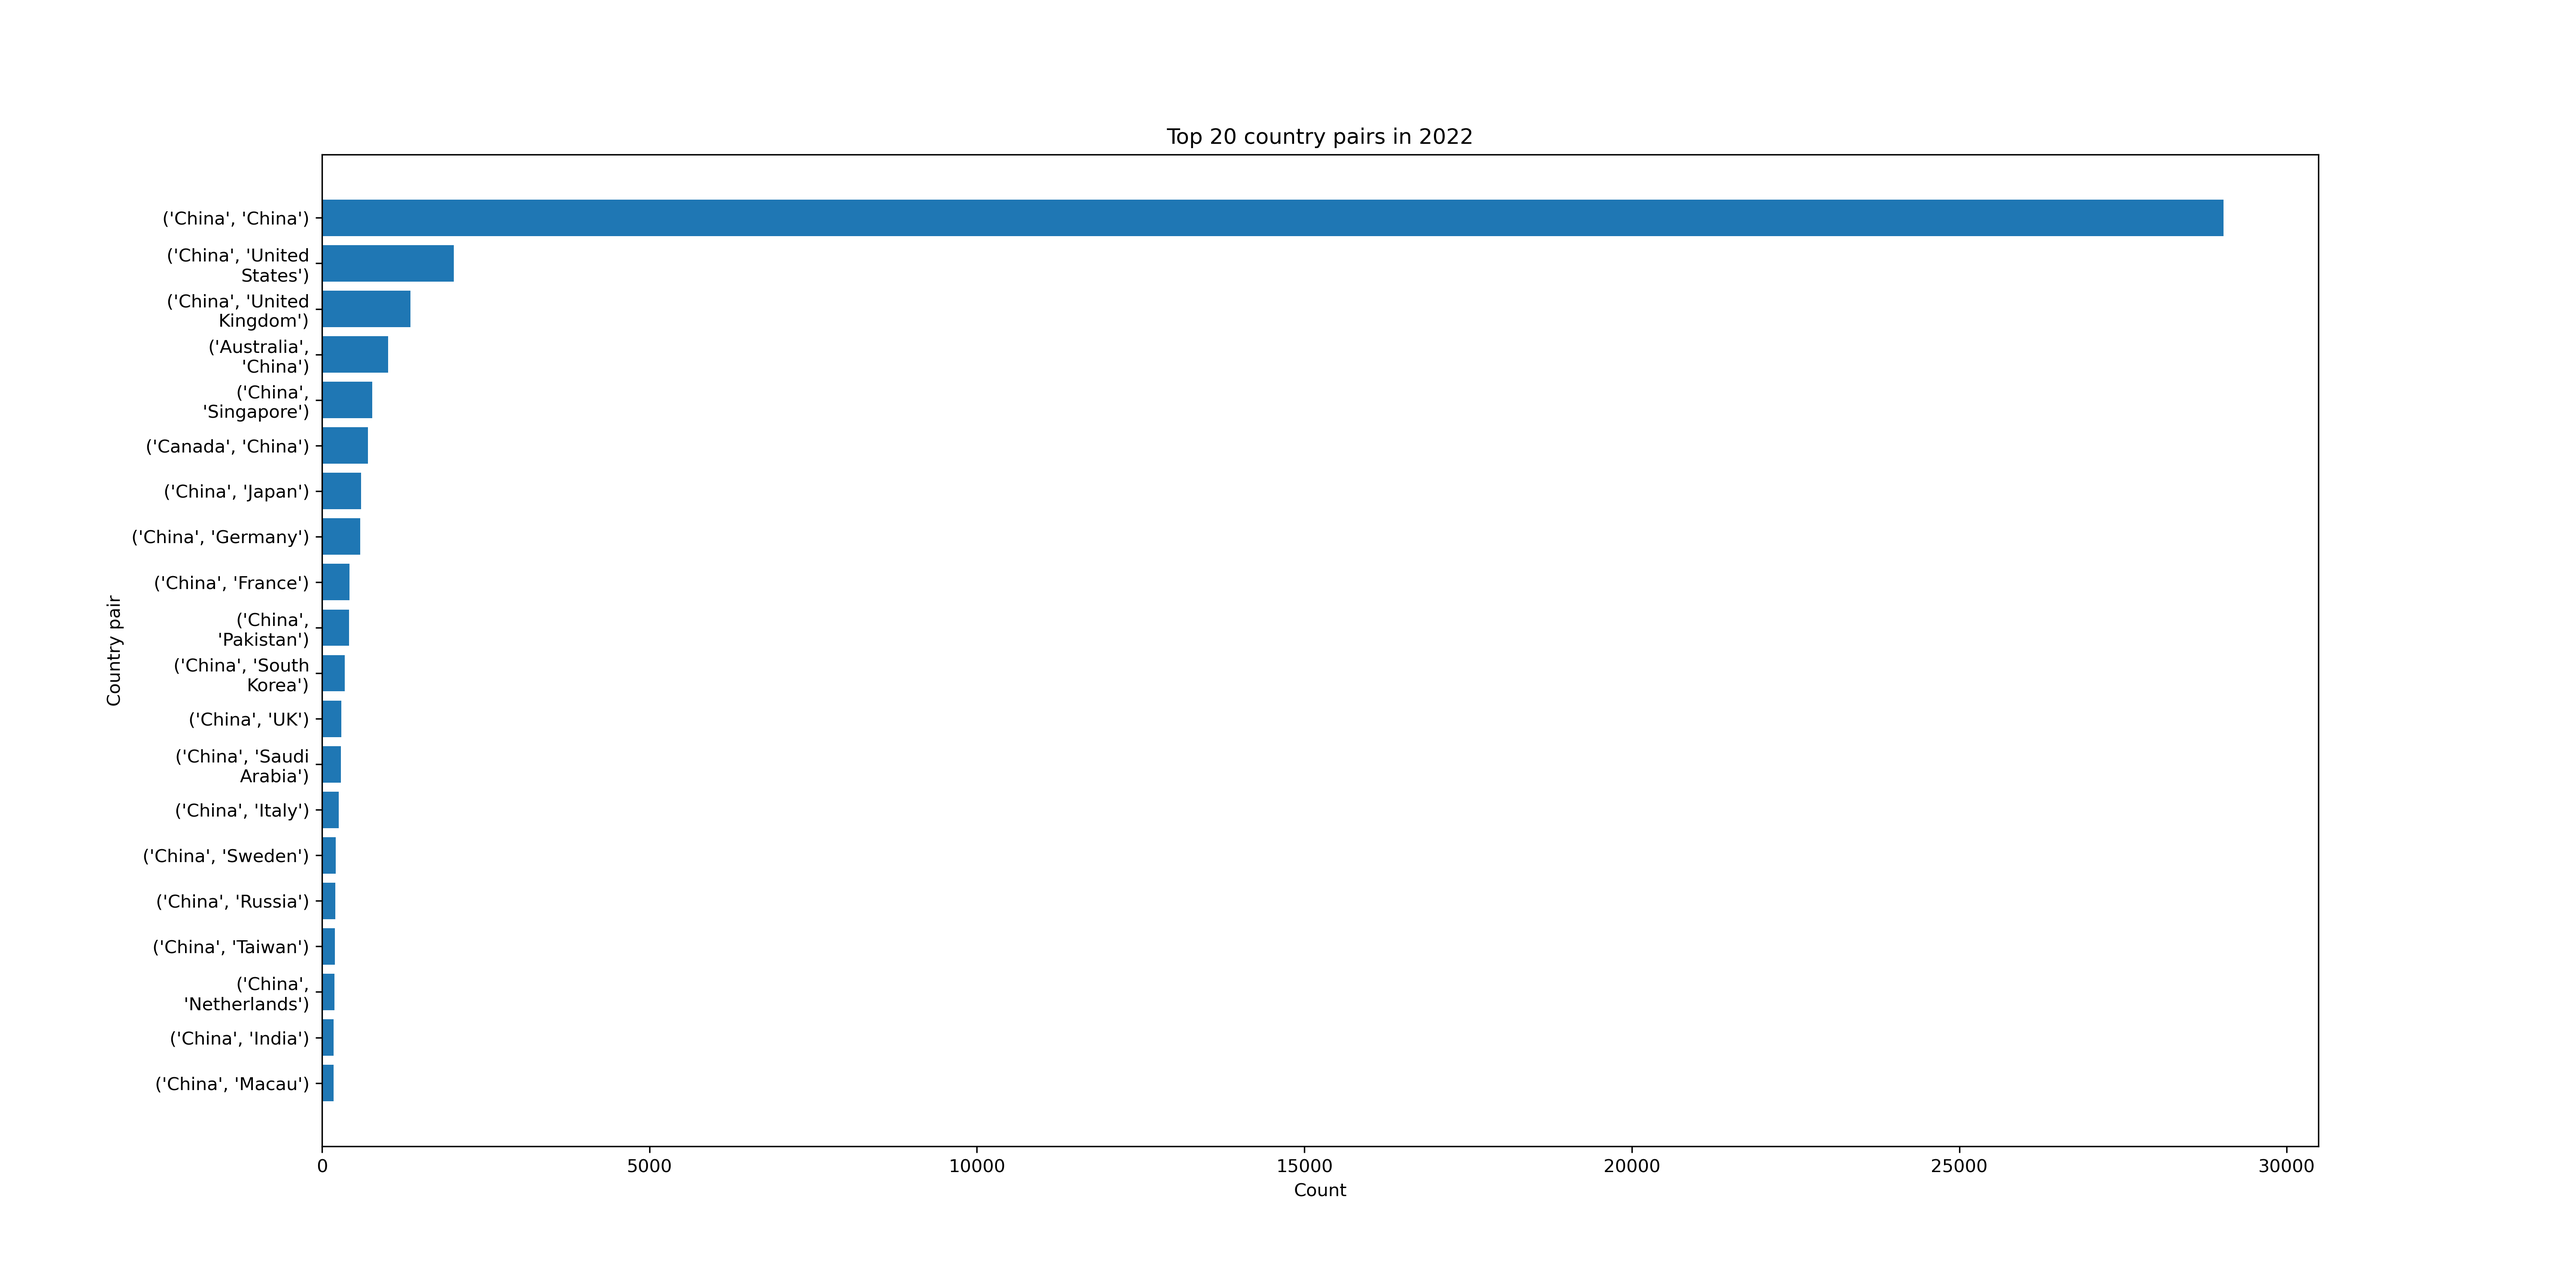
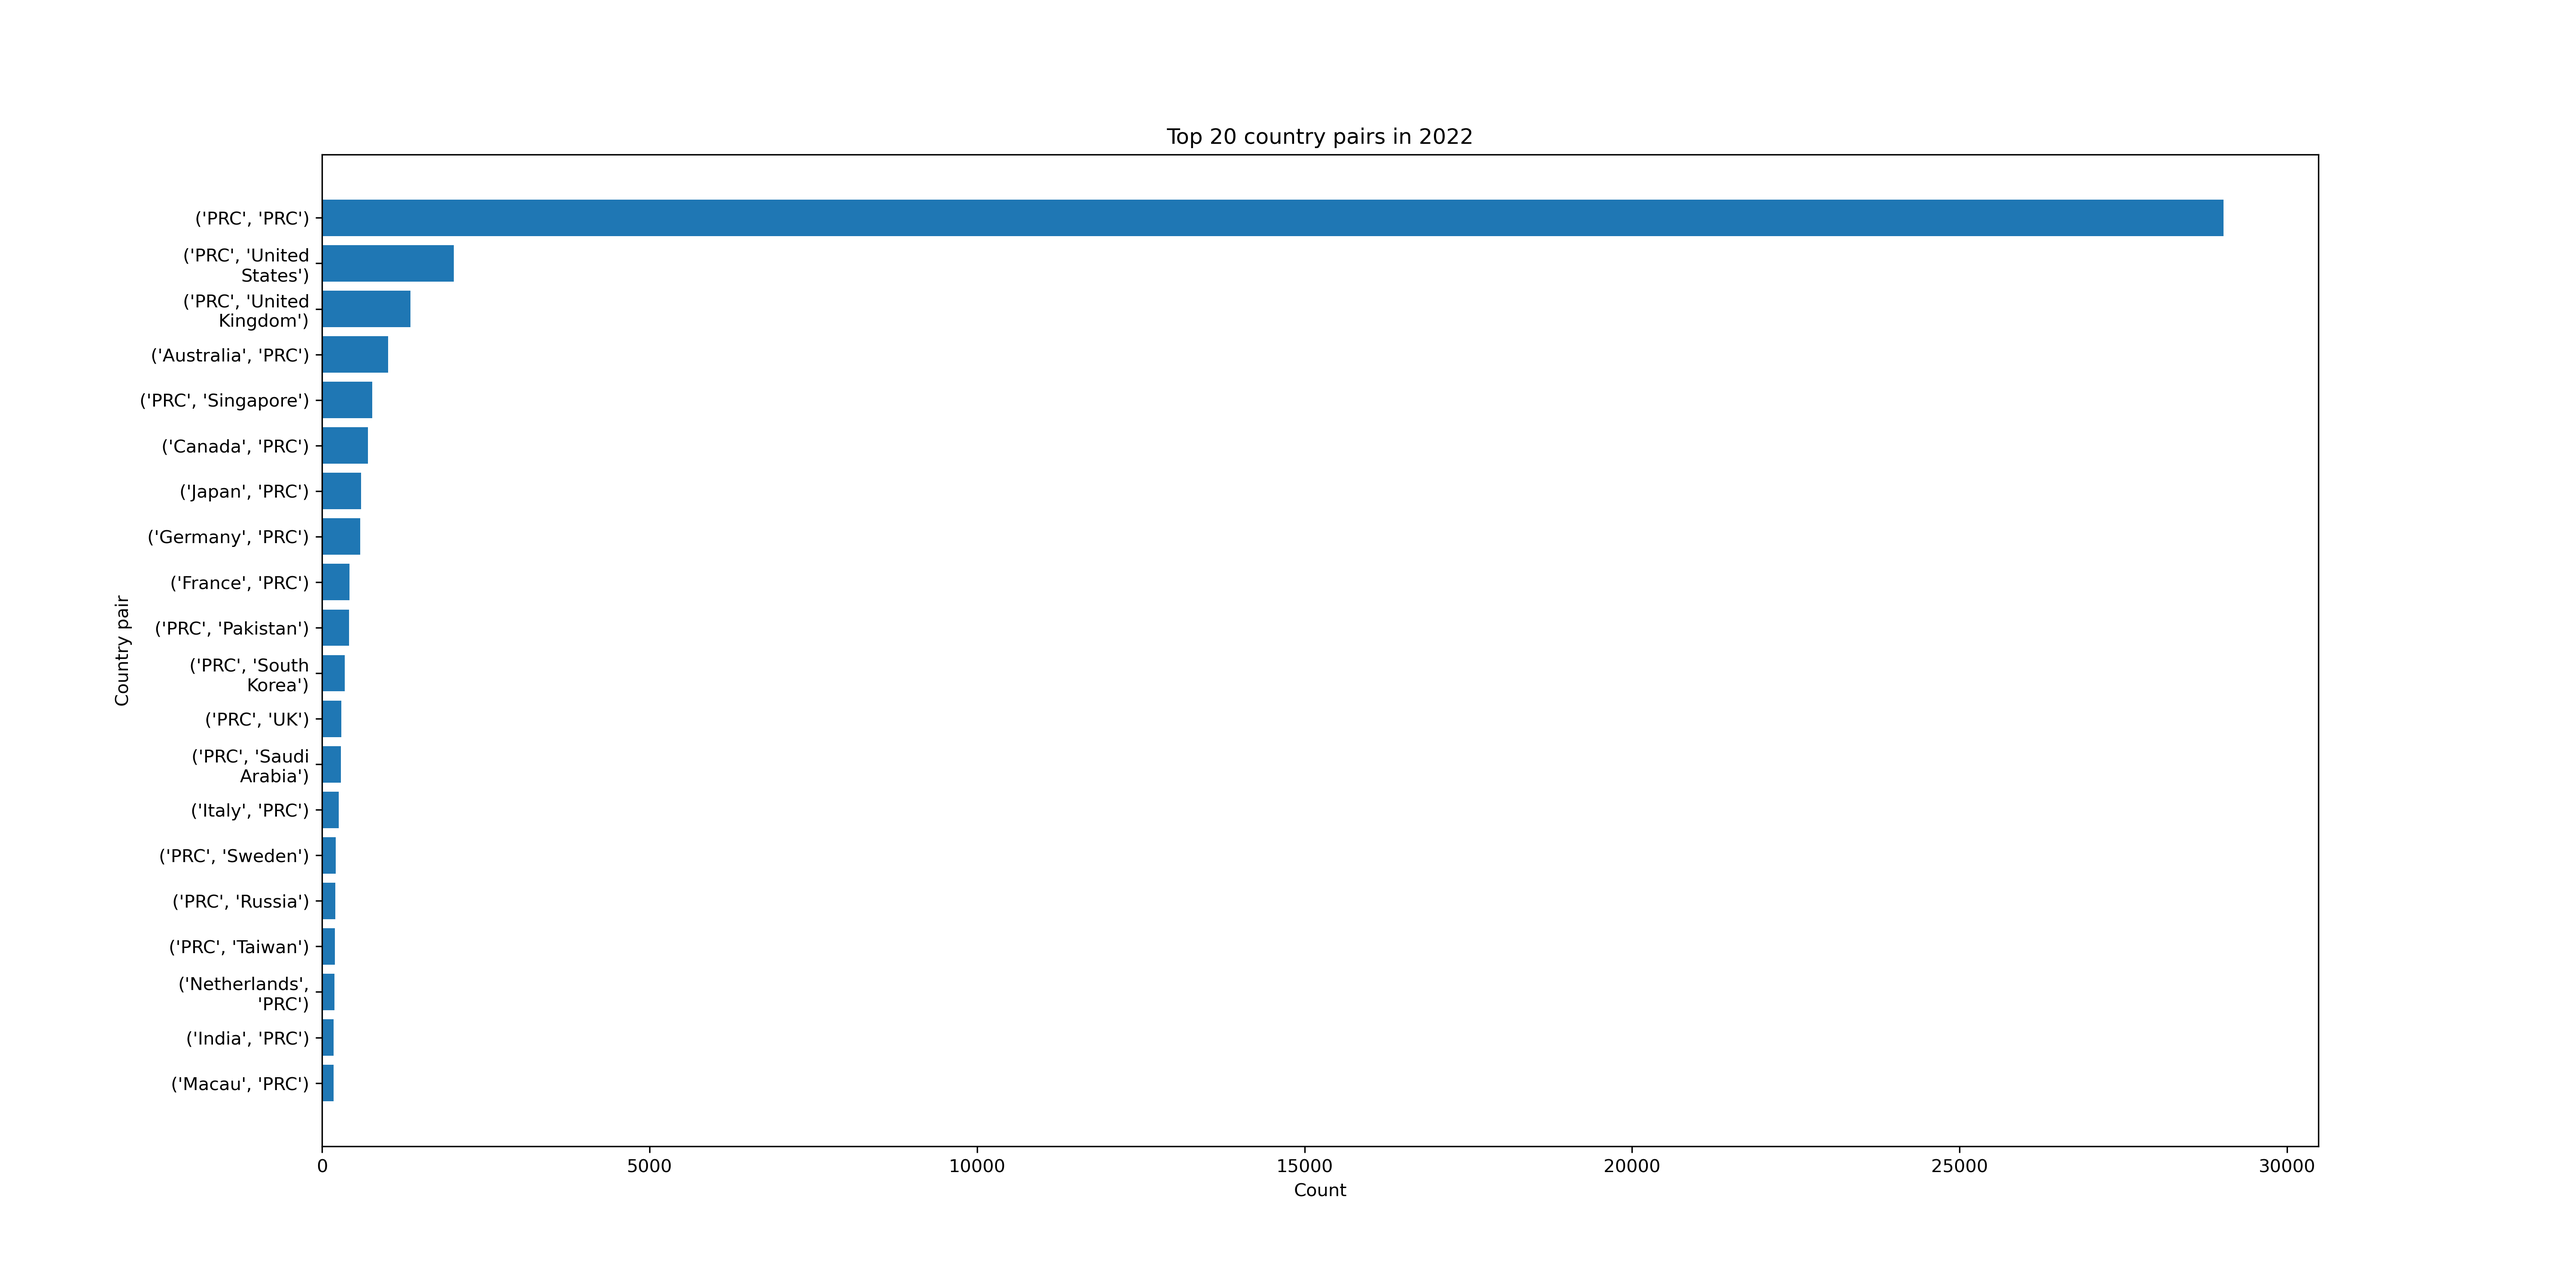
update algrithum to only observe the target univs

diff --git a/b1_wosa_country_year_based/b1_wosa_country_year_based.py b/b1_wosa_country_year_based/b1_wosa_country_year_based.py
@@ -5,6 +5,7 @@ import textwrap
 import os
 
 year_list = ["2018", "2019", "2020", "2021", "2022"]
+seven_universities_name_list = ["Beihang University", "Beijing Institute of Technology", "Harbin Engineering University", "Northwestern Polytechnical University", "Nanjing University of Science & Technology", "Nanjing University of Aeronautics & Astronautics", "Harbin Institute of Technology"]
 year_dic = {}
 
 # input_with_year = pd.read_csv(os.path.join('input-with-year-small.txt'), delimiter="\t", dtype=str).values.tolist()
@@ -19,7 +20,7 @@ for article in input_with_year:
 univ_country_df = pd.read_csv(os.path.join('node-with-country.csv'))
 print(univ_country_df.head())
 
-name_standardization_dict = {"USA": "United States", "Hong Kong": "China"}
+name_standardization_dict = {"USA": "United States", "Hong Kong": "PRC", "China": "PRC"}
 
 for i in range(len(univ_country_df)):
     country_name = univ_country_df['country'][i].strip()
@@ -57,9 +58,10 @@ for year, year_content in year_dic.items():
                 if univ_b not in univ_country_dict:
                     print(univ_b)
                     continue
+                if univ_a not in seven_universities_name_list and univ_b not in seven_universities_name_list: continue
                 country_pair = tuple(sorted([univ_country_dict[univ_a],
                                             univ_country_dict[univ_b]]))
-                if 'China' not in country_pair: continue
+                if 'PRC' not in country_pair: continue
                 if country_pair not in country_pairs_base_on_one_article:
                     country_pairs_base_on_one_article[country_pair] = 1
 
@@ -109,21 +111,21 @@ plt.tight_layout()
 plt.savefig(os.path.join('b1_wosa_country_year_based','country_pairs_by_year', 'coauthorship-country_all_years.png'), dpi=300)
 plt.close()
 
-# remove China-China from the plot
-del all_years_data[('China', 'China')]
+# remove PRC-PRC from the plot
+del all_years_data[('PRC', 'PRC')]
 plt.figure(figsize=(15, 10))
 
 for country_pair, data in all_years_data.items():
     years = sorted(data.keys())
     counts = [data[year] for year in years]
     plt.plot(years, counts, marker='o', label='-'.join(country_pair))
-plt.title('Country Pair Counts Over Years - Without China-China')
+plt.title('Country Pair Counts Over Years - Without PRC-PRC')
 plt.xlabel('Year')
 plt.ylabel('Number of Country Pairs')
 plt.legend(loc='upper left', bbox_to_anchor=(1, 1))
 plt.xticks(rotation=90)
 plt.tight_layout()
-plt.savefig(os.path.join('b1_wosa_country_year_based','country_pairs_by_year', 'coauthorship-country_all_years_without_china.png'), dpi=300)
+plt.savefig(os.path.join('b1_wosa_country_year_based','country_pairs_by_year', 'coauthorship-country_all_years_without_PRC.png'), dpi=300)
 plt.close()
 
 print('Finished')
